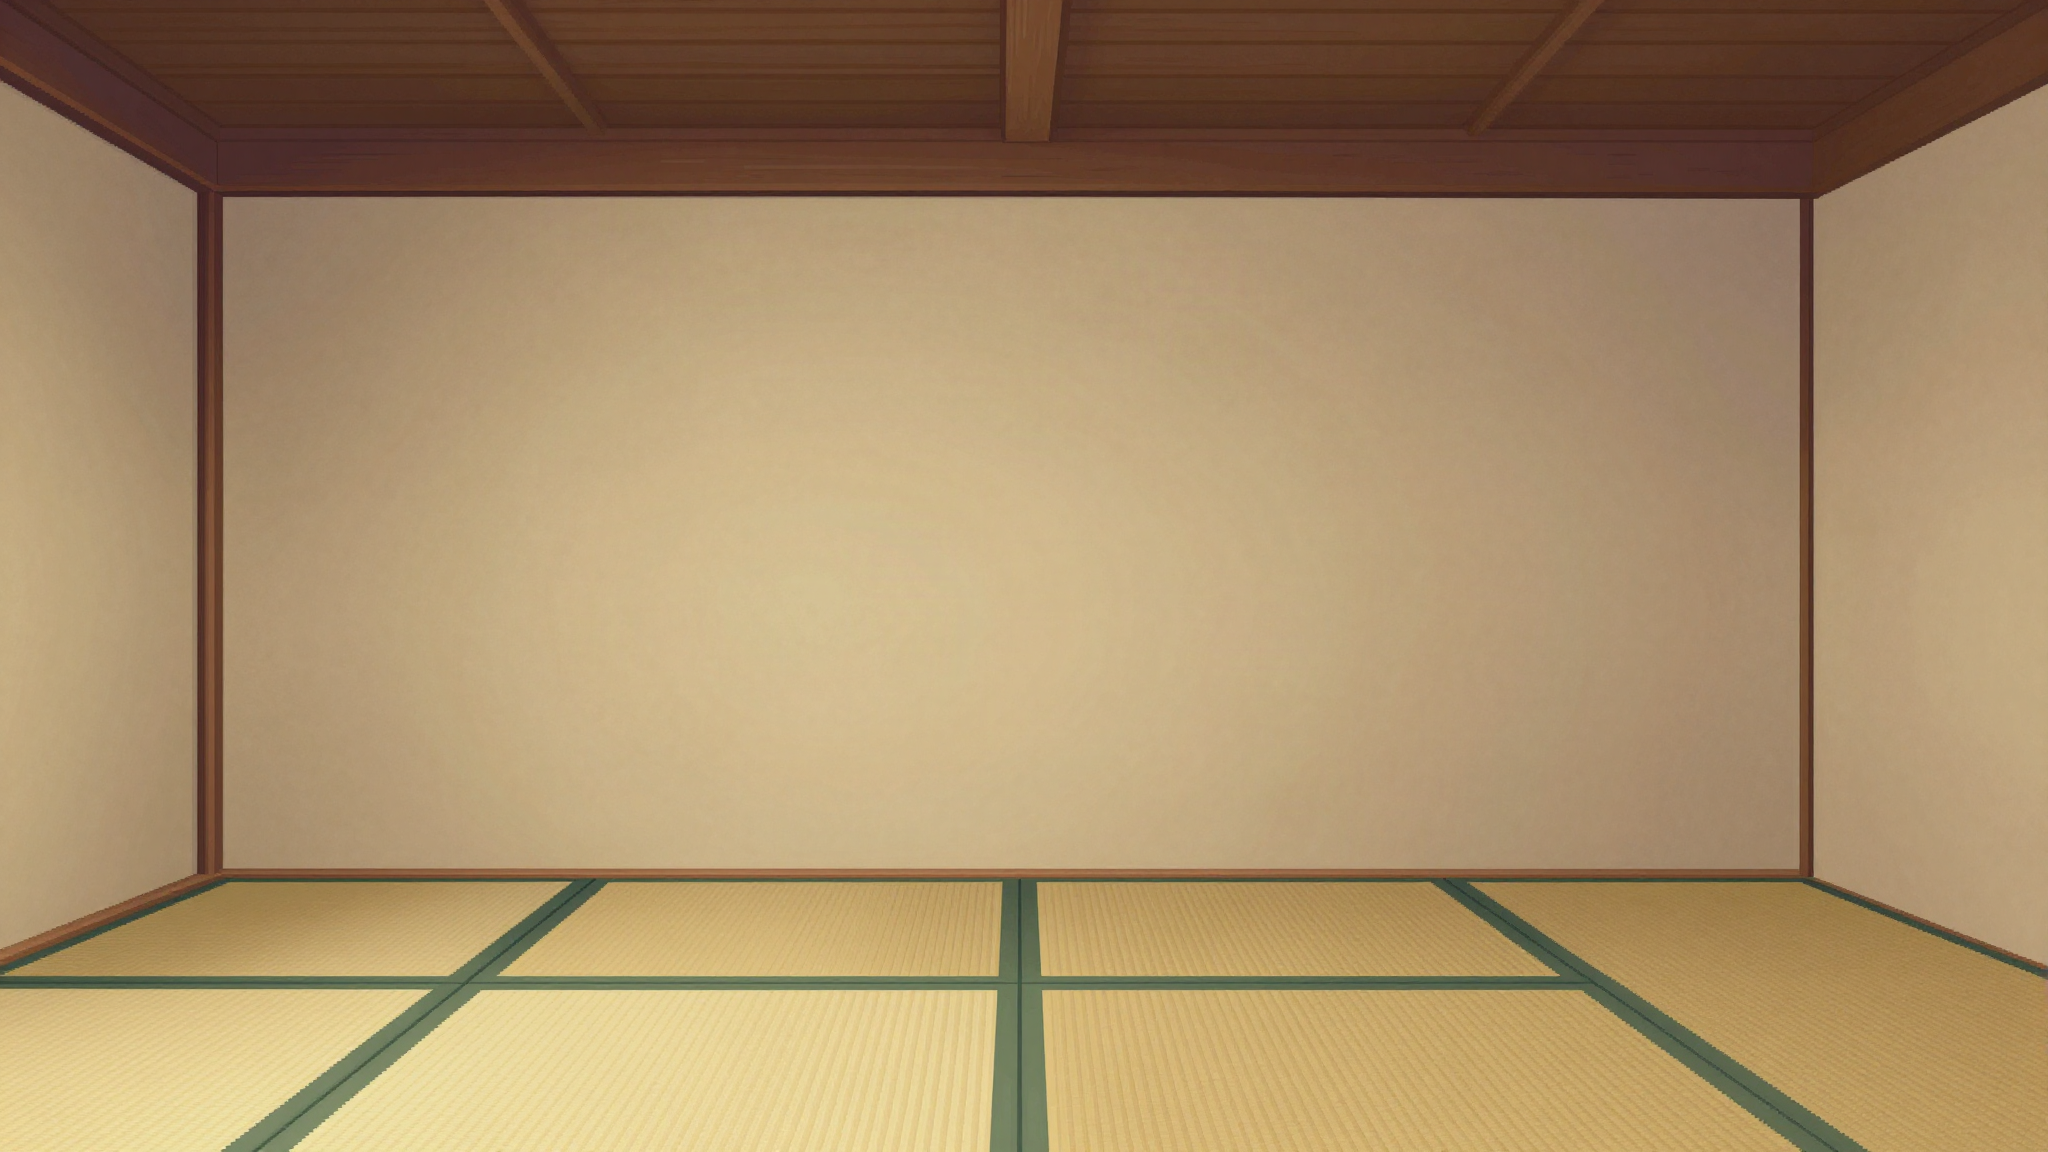
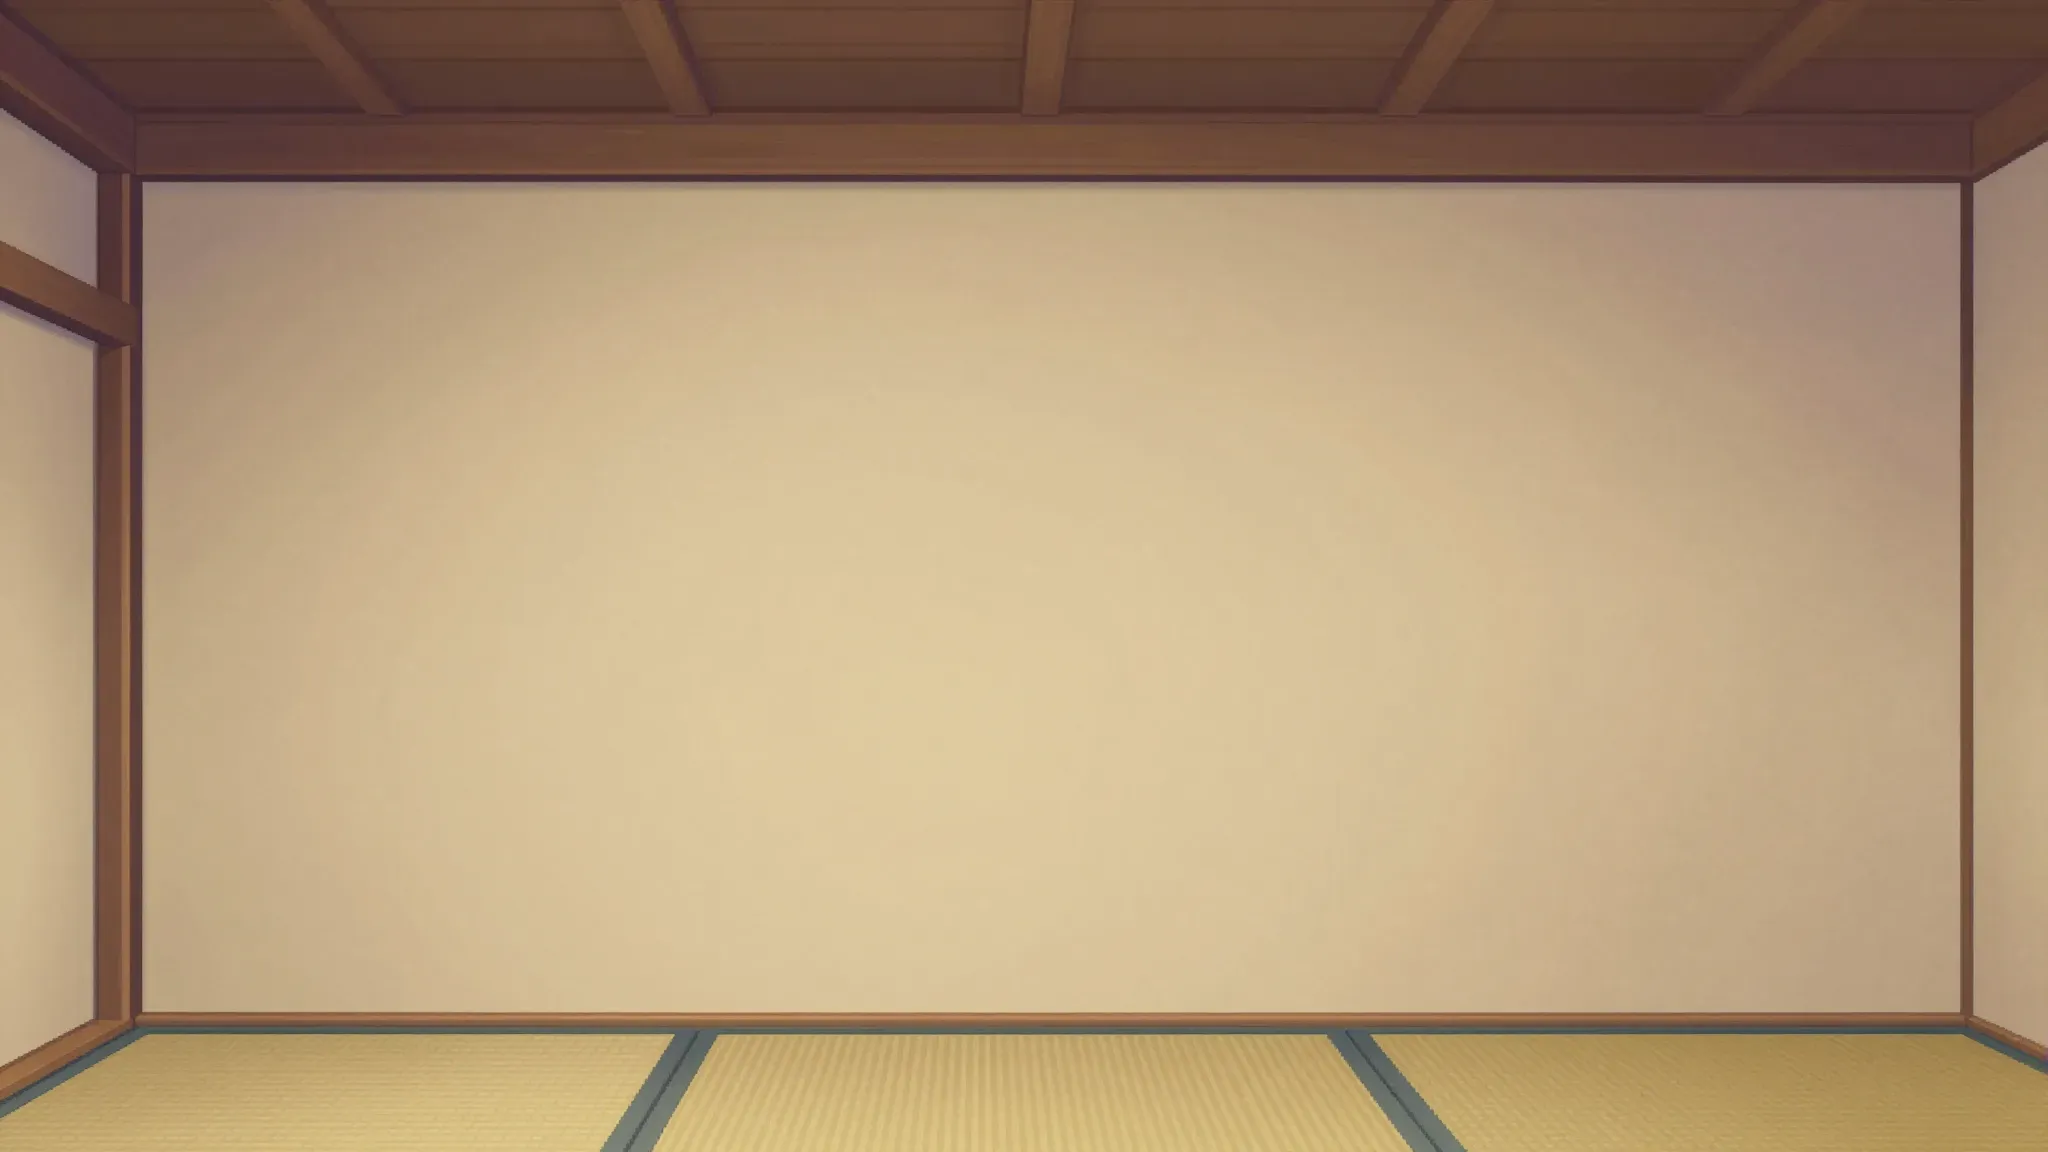
Flatten a generated wall to its modal colour, and regenerate the apartment's wall
A manifest wall (floor "code") may set flatten: { radius }: after wallOnly
and before the palette snap, every pixel within that OKLab distance of the
wall's modal colour becomes it (pixelOps flattenToMode), so a raw's vignette
reads as one plaster while the wood, far from the mode, keeps its shading;
pixelate.ts refuses it on anything else, and art.test holds the radius in
(0, 1] on a code-floored wall only.

The apartment's new Z-Image-Turbo raw (HF, seed 423969) asks for flat
plaster and gives a light pool that every lightness weight and crop snaps
into two creams; radius 0.25 collapses it (0.20 leaves the top corners
grey, 0.30 eats the beam's lit face). The crop drops the angled side wall
and the wide corner post face (x 130 on), starts under the ceiling planks
(y 107) so the nageshi beam spans the top, and keeps the inner post face
and the right post as 2 px posts at each edge; the seam is raw row 1034,
the first tatami row. The plaster is one colour (#e6d3a8), 15 colours and
779 bytes in all; the baseboard's lit top row goes with the pool.

diff --git a/src/ui/art/pixelOps.ts b/src/ui/art/pixelOps.ts
@@ -535,6 +535,42 @@ export function wallOnly(src: RgbaImage, seamSrc: number, dstW: number, dstH: nu
 }
 
 /**
+ * Flattens a wall's plaster: every opaque pixel within `radius` (OKLab Euclidean distance) of the image's modal opaque
+ * colour (exact RGB counts) becomes that colour exactly; every other pixel, and the alpha, stays. For a generated wall
+ * whose prompt asked for flat lighting and got a vignette: the pool and its edges collapse to the one plaster the
+ * palette snap then reads, while the wood, far from the mode, keeps its shading. Radius 0 changes nothing; an image
+ * with no opaque pixel comes back as a copy.
+ */
+export function flattenToMode(img: RgbaImage, radius: number): RgbaImage {
+  const out = makeImage(img.width, img.height)
+  out.data.set(img.data)
+  const counts = new Map<number, number>()
+  for (let i = 0; i < img.data.length; i += 4) {
+    if (img.data[i + 3] === 0) continue
+    const key = (img.data[i] << 16) | (img.data[i + 1] << 8) | img.data[i + 2]
+    counts.set(key, (counts.get(key) ?? 0) + 1)
+  }
+  let mode = -1
+  let best = 0
+  for (const [key, n] of counts) if (n > best) { mode = key; best = n }
+  if (mode < 0 || radius <= 0) return out
+  const mr = mode >> 16, mg = (mode >> 8) & 255, mb = mode & 255
+  const [ml, ma, mbb] = rgbToOklab(mr, mg, mb)
+  const r2 = radius * radius
+  for (let i = 0; i < out.data.length; i += 4) {
+    if (out.data[i + 3] === 0) continue
+    const [l, a, b] = rgbToOklab(out.data[i], out.data[i + 1], out.data[i + 2])
+    const dl = l - ml, da = a - ma, db = b - mbb
+    if (dl * dl + da * da + db * db <= r2) {
+      out.data[i] = mr
+      out.data[i + 1] = mg
+      out.data[i + 2] = mb
+    }
+  }
+  return out
+}
+
+/**
  * Mirrors an image left to right (a new image; the source is untouched). For a sheet object drawn facing the wrong way
  * for its place in the scene, such as the arm lamp, whose shade must lean left over the page.
  */

diff --git a/src/ui/art/__tests__/pixelOps.test.ts b/src/ui/art/__tests__/pixelOps.test.ts
@@ -6,6 +6,7 @@ import {
   downsampleArea,
   downsampleNearest,
   findBlobs,
+  flattenToMode,
   flipHorizontal,
   floodTransparentFromEdges,
   makeImage,
@@ -504,6 +505,42 @@ describe('wallOnly', () => {
   it('refuses a seam outside (0, height]', () => {
     expect(() => wallOnly(redOverBlue(), 0, 2, 1, 'area')).toThrow()
     expect(() => wallOnly(redOverBlue(), 5, 2, 1, 'area')).toThrow()
+  })
+})
+
+describe('flattenToMode', () => {
+  /** A 4x2 wall: five pixels of the plaster (200,180,150), two a shade darker (190,172,142), one of dark wood (60,40,20). */
+  function shadedWall() {
+    const img = makeImage(4, 2)
+    fill(img, 200, 180, 150)
+    setPixel(img, 0, 0, 190, 172, 142)
+    setPixel(img, 3, 1, 190, 172, 142)
+    setPixel(img, 2, 1, 60, 40, 20)
+    return img
+  }
+  const pixel = (img: ReturnType<typeof makeImage>, x: number, y: number) => Array.from(img.data.slice((y * img.width + x) * 4, (y * img.width + x) * 4 + 4))
+
+  it('sets every opaque pixel within the radius (OKLab) of the modal colour to that colour, and leaves the rest', () => {
+    const src = shadedWall()
+    const out = flattenToMode(src, 0.05)
+    expect([out.width, out.height]).toEqual([4, 2])
+    expect(pixel(out, 0, 0)).toEqual([200, 180, 150, 255])
+    expect(pixel(out, 3, 1)).toEqual([200, 180, 150, 255])
+    expect(pixel(out, 2, 1)).toEqual([60, 40, 20, 255])
+    expect(pixel(out, 1, 0)).toEqual([200, 180, 150, 255])
+    // the source is untouched
+    expect(pixel(src, 0, 0)).toEqual([190, 172, 142, 255])
+  })
+
+  it('changes nothing at radius 0', () => {
+    const src = shadedWall()
+    expect(Array.from(flattenToMode(src, 0).data)).toEqual(Array.from(src.data))
+  })
+
+  it('returns a fully transparent image unchanged', () => {
+    const src = makeImage(3, 2)
+    setPixel(src, 1, 1, 90, 80, 70, 0)
+    expect(Array.from(flattenToMode(src, 0.5).data)).toEqual(Array.from(src.data))
   })
 })
 

diff --git a/scripts/pixelate.ts b/scripts/pixelate.ts
@@ -28,6 +28,7 @@ import {
   downsampleArea,
   downsampleNearest,
   findBlobs,
+  flattenToMode,
   flipHorizontal,
   floodTransparentFromEdges,
   padToAspect,
@@ -90,6 +91,12 @@ interface ManifestEntry {
    * above `seam.src` resampled to `native` (pixelOps `wallOnly`), whose height must be `seam.dst`.
    */
   floor?: 'code'
+  /**
+   * A wall's plaster flattened before the palette snap (pixelOps `flattenToMode`): every pixel within `radius` (OKLab
+   * distance) of the wall's modal colour becomes it, so a raw's vignette or light pool, which the snap would band into
+   * two creams, reads as one plaster while the wood, far from the mode, keeps its shading. Only with `floor: "code"`.
+   */
+  flatten?: { radius: number }
   /**
    * The cutout's flood tolerance (RGB distance from the corner colour), FLOOD_TOLERANCE when absent: raised where the
    * sheet drew a soft grey shadow under an object that the default leaves behind.
@@ -227,11 +234,13 @@ async function processEntry(entry: ManifestEntry): Promise<{ outPath: string; co
       throw new Error(`${entry.id}: floor "code" keeps the wall only, so native height ${nativeH} must be seam.dst ${entry.seam.dst}`)
     }
   }
+  if (entry.flatten && entry.floor !== 'code') throw new Error(`${entry.id}: flatten is for a wall`)
   if (entry.seam) {
     if (entry.cutout) throw new Error(`${entry.id}: a seam remap is for a room shell, not a cutout`)
     working = entry.floor === 'code'
       ? wallOnly(working, entry.seam.src, nativeW, nativeH, entry.sample)
       : remapSeam(working, entry.seam.src, nativeW, nativeH, entry.seam.dst, entry.sample)
+    if (entry.flatten) working = flattenToMode(working, entry.flatten.radius)
   } else {
     working =
       entry.sample === 'nearest'

diff --git a/src/ui/__tests__/art.test.ts b/src/ui/__tests__/art.test.ts
@@ -33,6 +33,8 @@ interface ManifestEntry {
   seam?: { src: number; dst: number }
   /** `code`: the scene draws this room's floor, so the image is the wall alone, the rows above the seam */
   floor?: 'code'
+  /** a wall's plaster flattened to its modal colour within an OKLab radius, before the palette snap */
+  flatten?: { radius: number }
   tolerance?: number
   holes?: [number, number][]
   flip?: boolean
@@ -197,11 +199,16 @@ describe('art manifest', () => {
         expect(e.crop[0] + e.crop[2] <= raw.width && e.crop[1] + e.crop[3] <= raw.height, `${e.id} crop`).toBe(true)
       }
     }
-    // only a room is seam-remapped or code-floored; a lightness weight, where set, is in (0, 1]
+    // only a room is seam-remapped or code-floored; a lightness weight, where set, is in (0, 1]; a flatten radius,
+    // where set, is in (0, 1] and only on a code-floored wall
     for (const e of manifest) {
       if (!e.id.startsWith('room/')) expect(e.seam, `${e.id} seam`).toBeUndefined()
       if (!e.id.startsWith('room/')) expect(e.floor, `${e.id} floor`).toBeUndefined()
       if (e.lightness !== undefined) expect(e.lightness > 0 && e.lightness <= 1, `${e.id} lightness`).toBe(true)
+      if (e.flatten !== undefined) {
+        expect(e.flatten.radius > 0 && e.flatten.radius <= 1, `${e.id} flatten radius`).toBe(true)
+        expect(e.floor, `${e.id} flatten needs floor "code"`).toBe('code')
+      }
     }
   })
 
